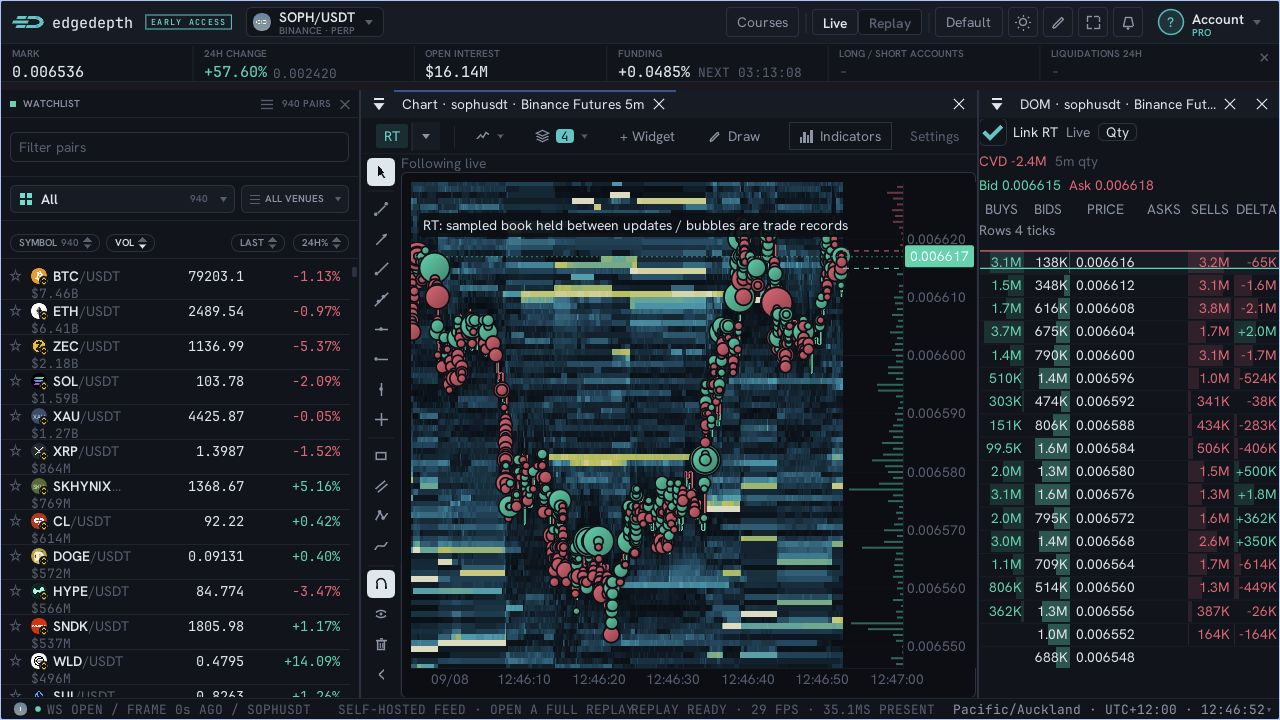
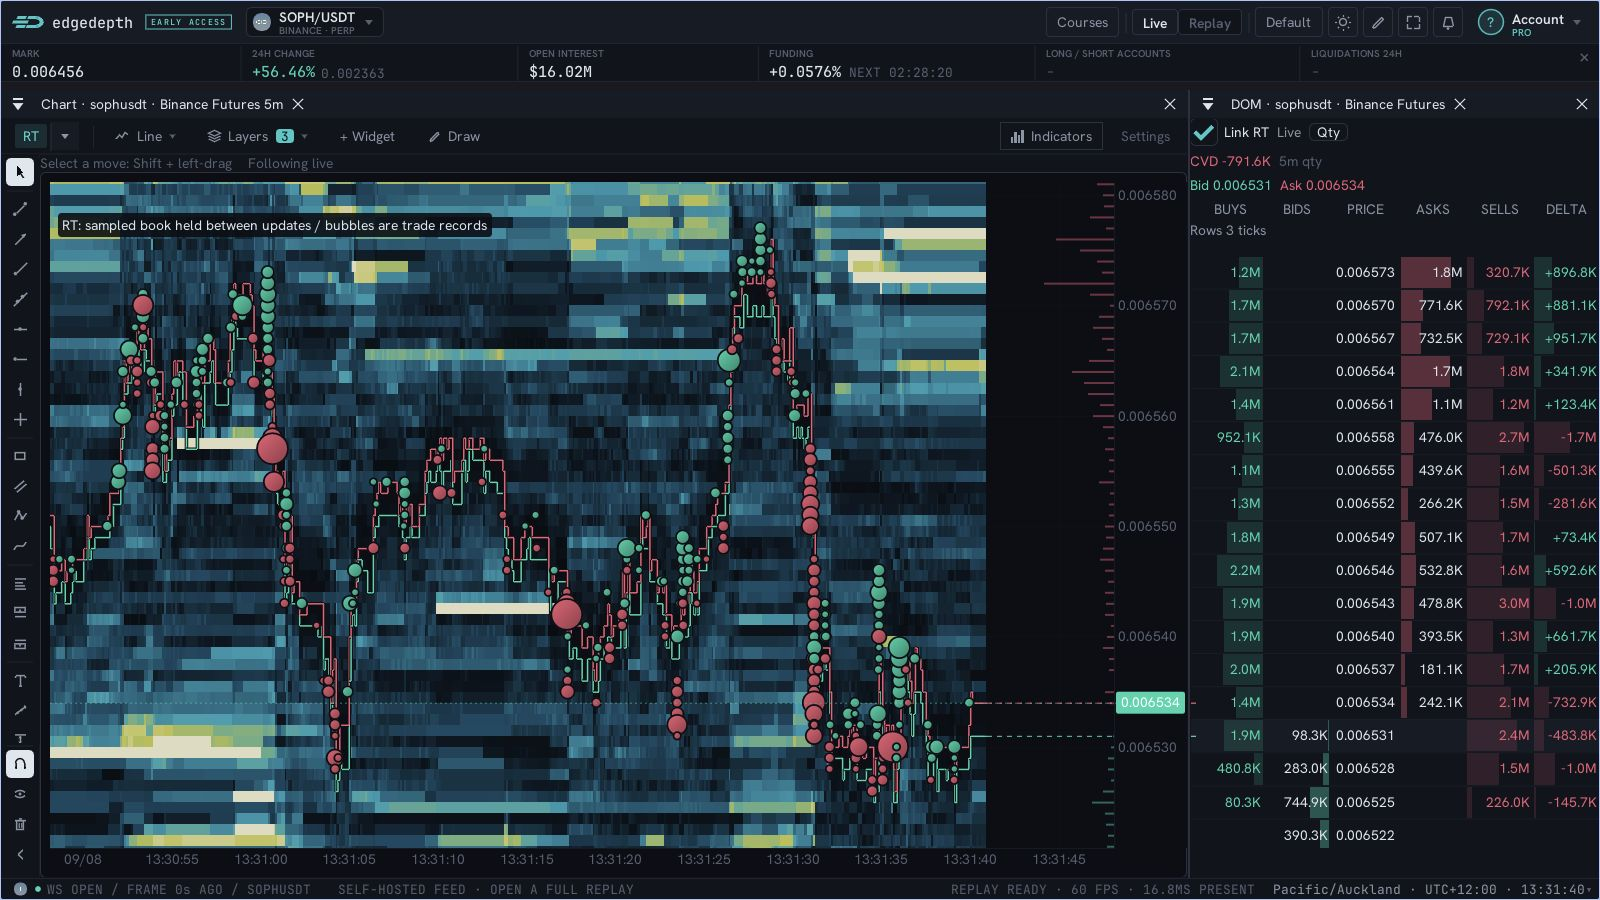
Keep RT quote markers clear of DOM values
Reserve a gutter for exact-price BBO markers and retake the live gallery image without the watchlist. Validation: Release WASM build and live browser capture with no console errors. Task: terminal-ui-polish.

diff --git a/src/ui/dom_widget.cpp b/src/ui/dom_widget.cpp
@@ -875,10 +875,13 @@ void DOMWidget::render_linked_ladder(const RealtimeDOMFrame& frame) {
     const float bottom = std::min(org.y + avail.y, frame.bottom);
     if (bottom <= top || avail.x <= 0) return;
     const float price_w = std::max(ImGui::CalcTextSize(bid).x, ImGui::CalcTextSize(ask).x) + 10;
-    const float col_w = std::max(1.0f, (avail.x - price_w) / 5);
-    const float edges[] = {org.x, org.x + col_w, org.x + col_w * 2,
-        org.x + col_w * 2 + price_w, org.x + col_w * 3 + price_w,
-        org.x + col_w * 4 + price_w, org.x + avail.x};
+    // Reserve a gutter for exact-price quote markers, clear of all numbers.
+    const float quote_gutter = 8.0f;
+    const float columns_x = org.x + quote_gutter;
+    const float col_w = std::max(1.0f, (avail.x - quote_gutter - price_w) / 5);
+    const float edges[] = {columns_x, columns_x + col_w, columns_x + col_w * 2,
+        columns_x + col_w * 2 + price_w, columns_x + col_w * 3 + price_w,
+        columns_x + col_w * 4 + price_w, org.x + avail.x};
     const float tick_h = float(tick_size_ / (frame.price_max - frame.price_min) * (frame.bottom - frame.top));
     const double ticks_per_row = std::max(1.0, std::ceil(double(text_h + 5) / tick_h));
     const double step = tick_size_ * ticks_per_row;
@@ -948,10 +951,10 @@ void DOMWidget::render_linked_ladder(const RealtimeDOMFrame& frame) {
             dl->PopClipRect();
         }
     }
-    // Best quotes stay at their exact native prices even inside grouped rows.
+    // Exact-price markers stay in the gutter, never crossing grouped-row text.
     for (int side = 0; side < 2; ++side) {
         const float y = frame.price_y(side ? book.ask : book.bid);
-        dl->AddLine(ImVec2(org.x, y), ImVec2(org.x + avail.x, y),
+        dl->AddLine(ImVec2(org.x + 1, y), ImVec2(columns_x - 2, y),
             Theme::u32(side ? Theme::Tokens::DOWN : Theme::Tokens::UP), 1.25f);
     }
     dl->PopClipRect();
